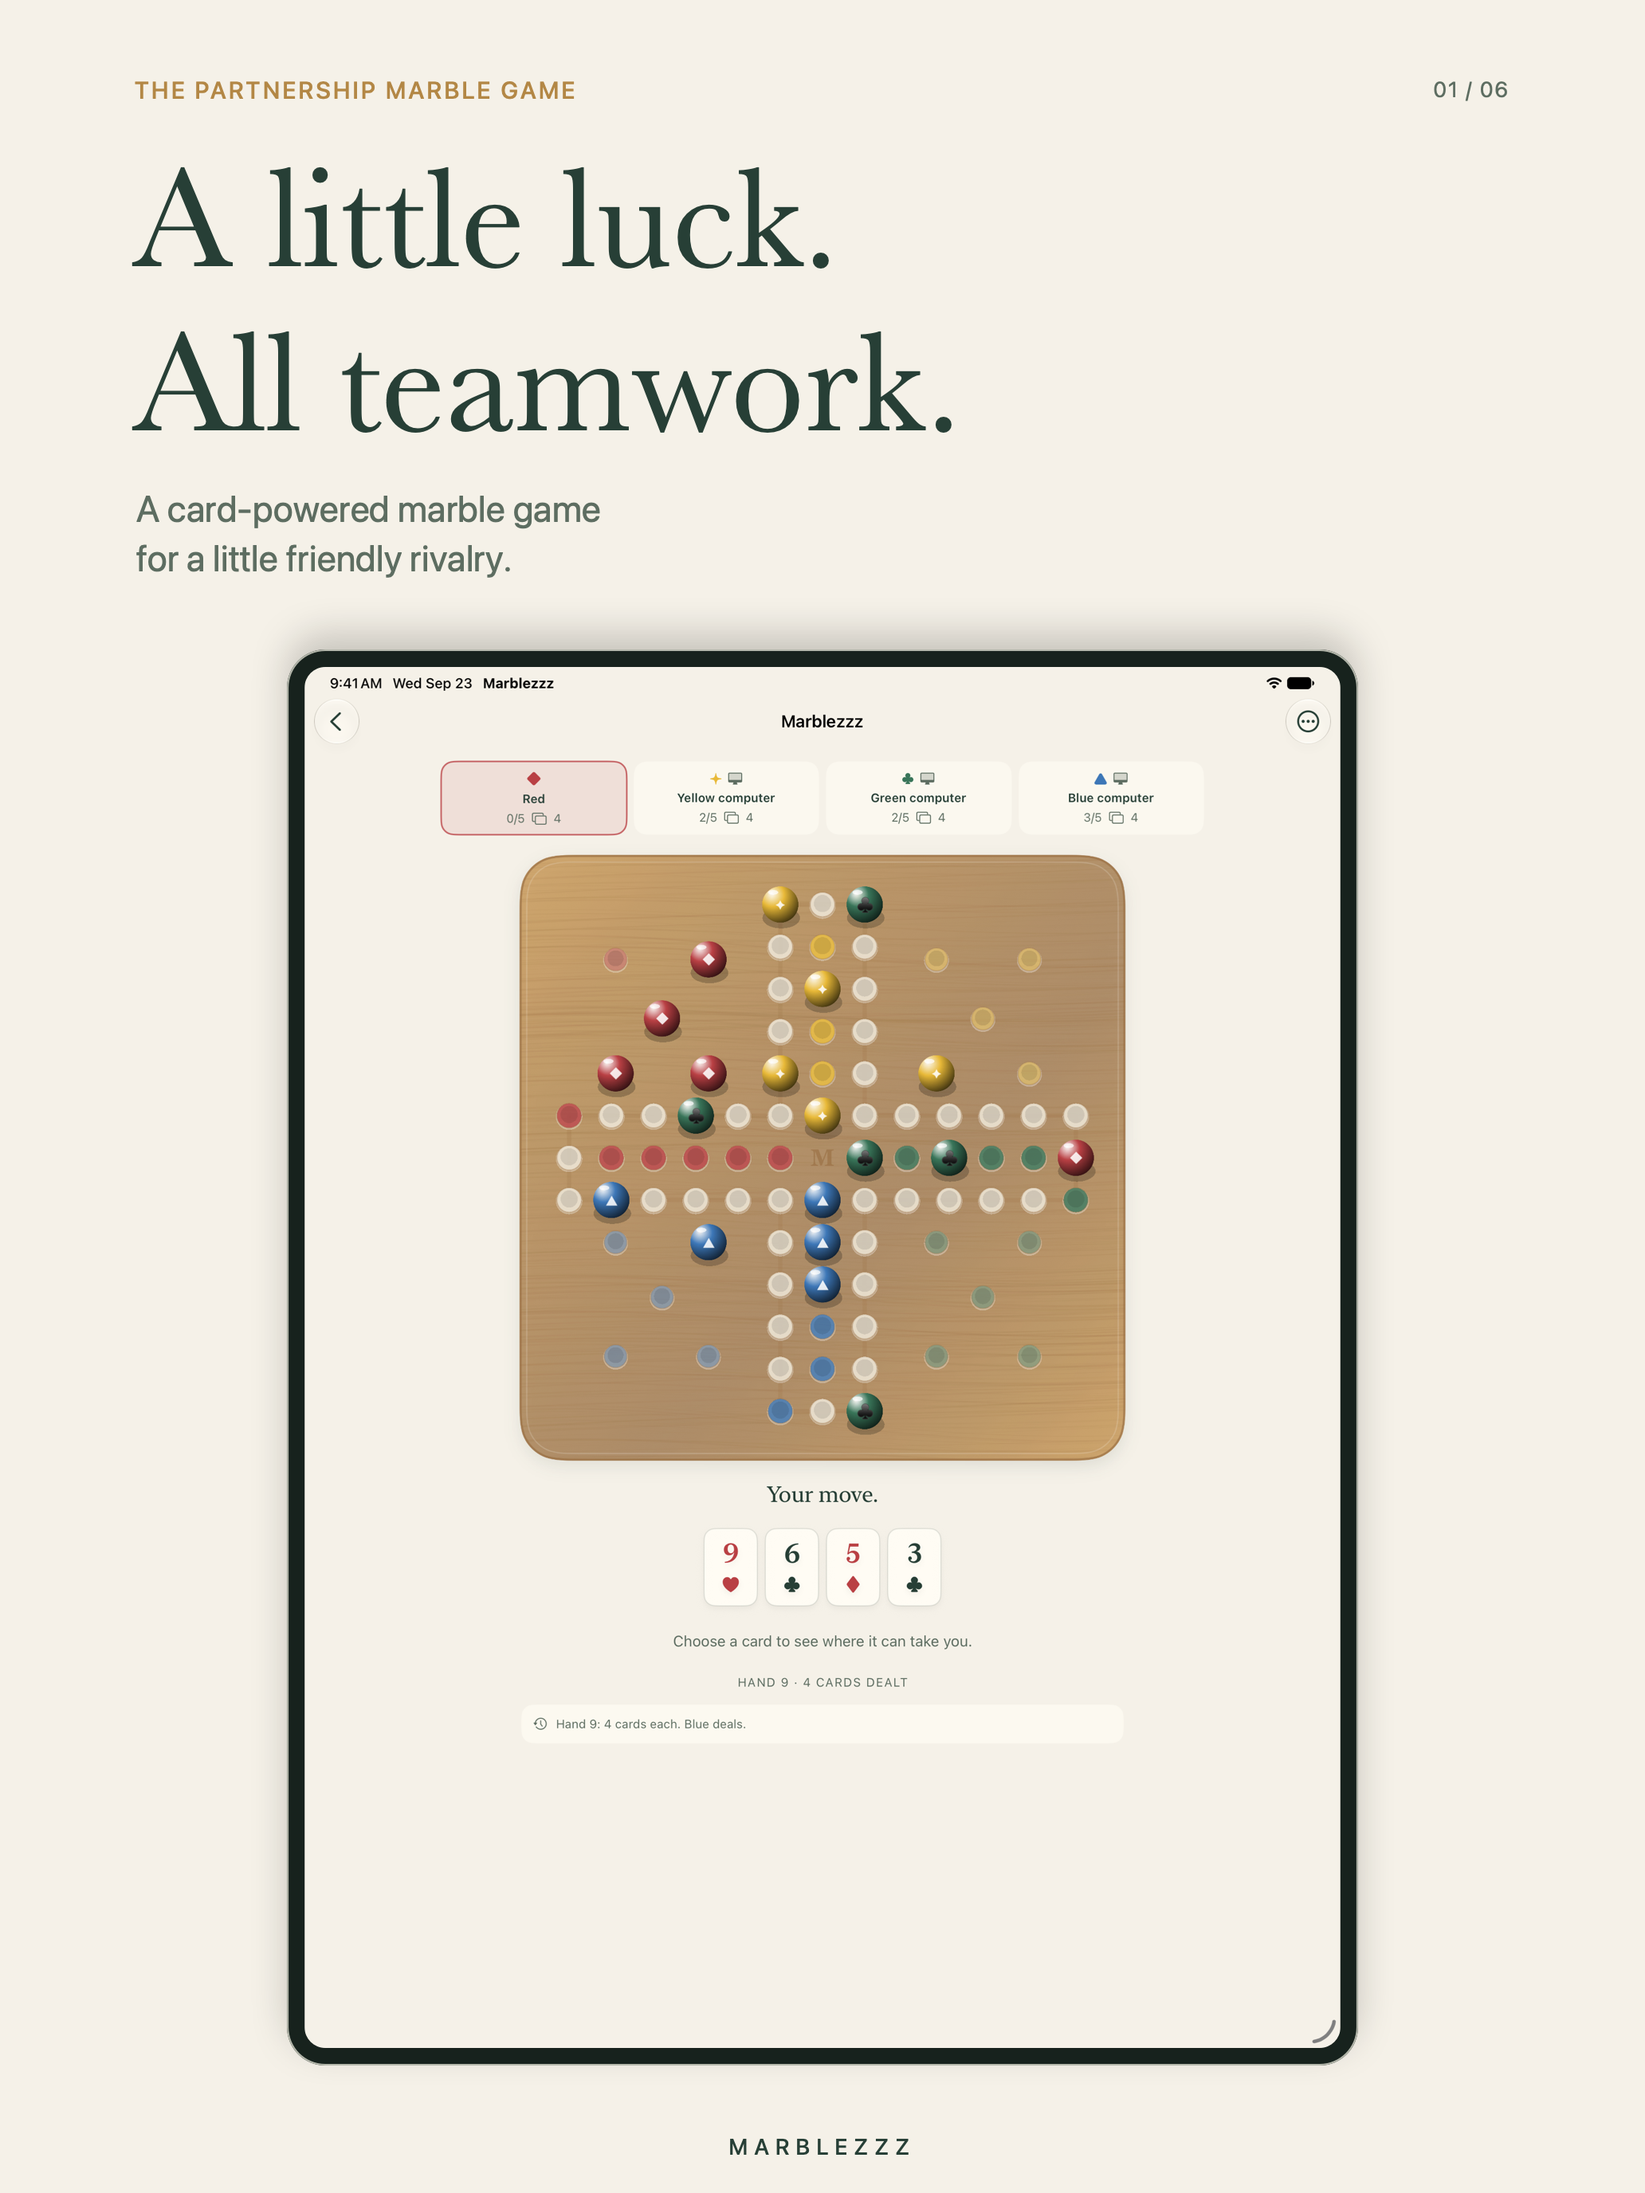
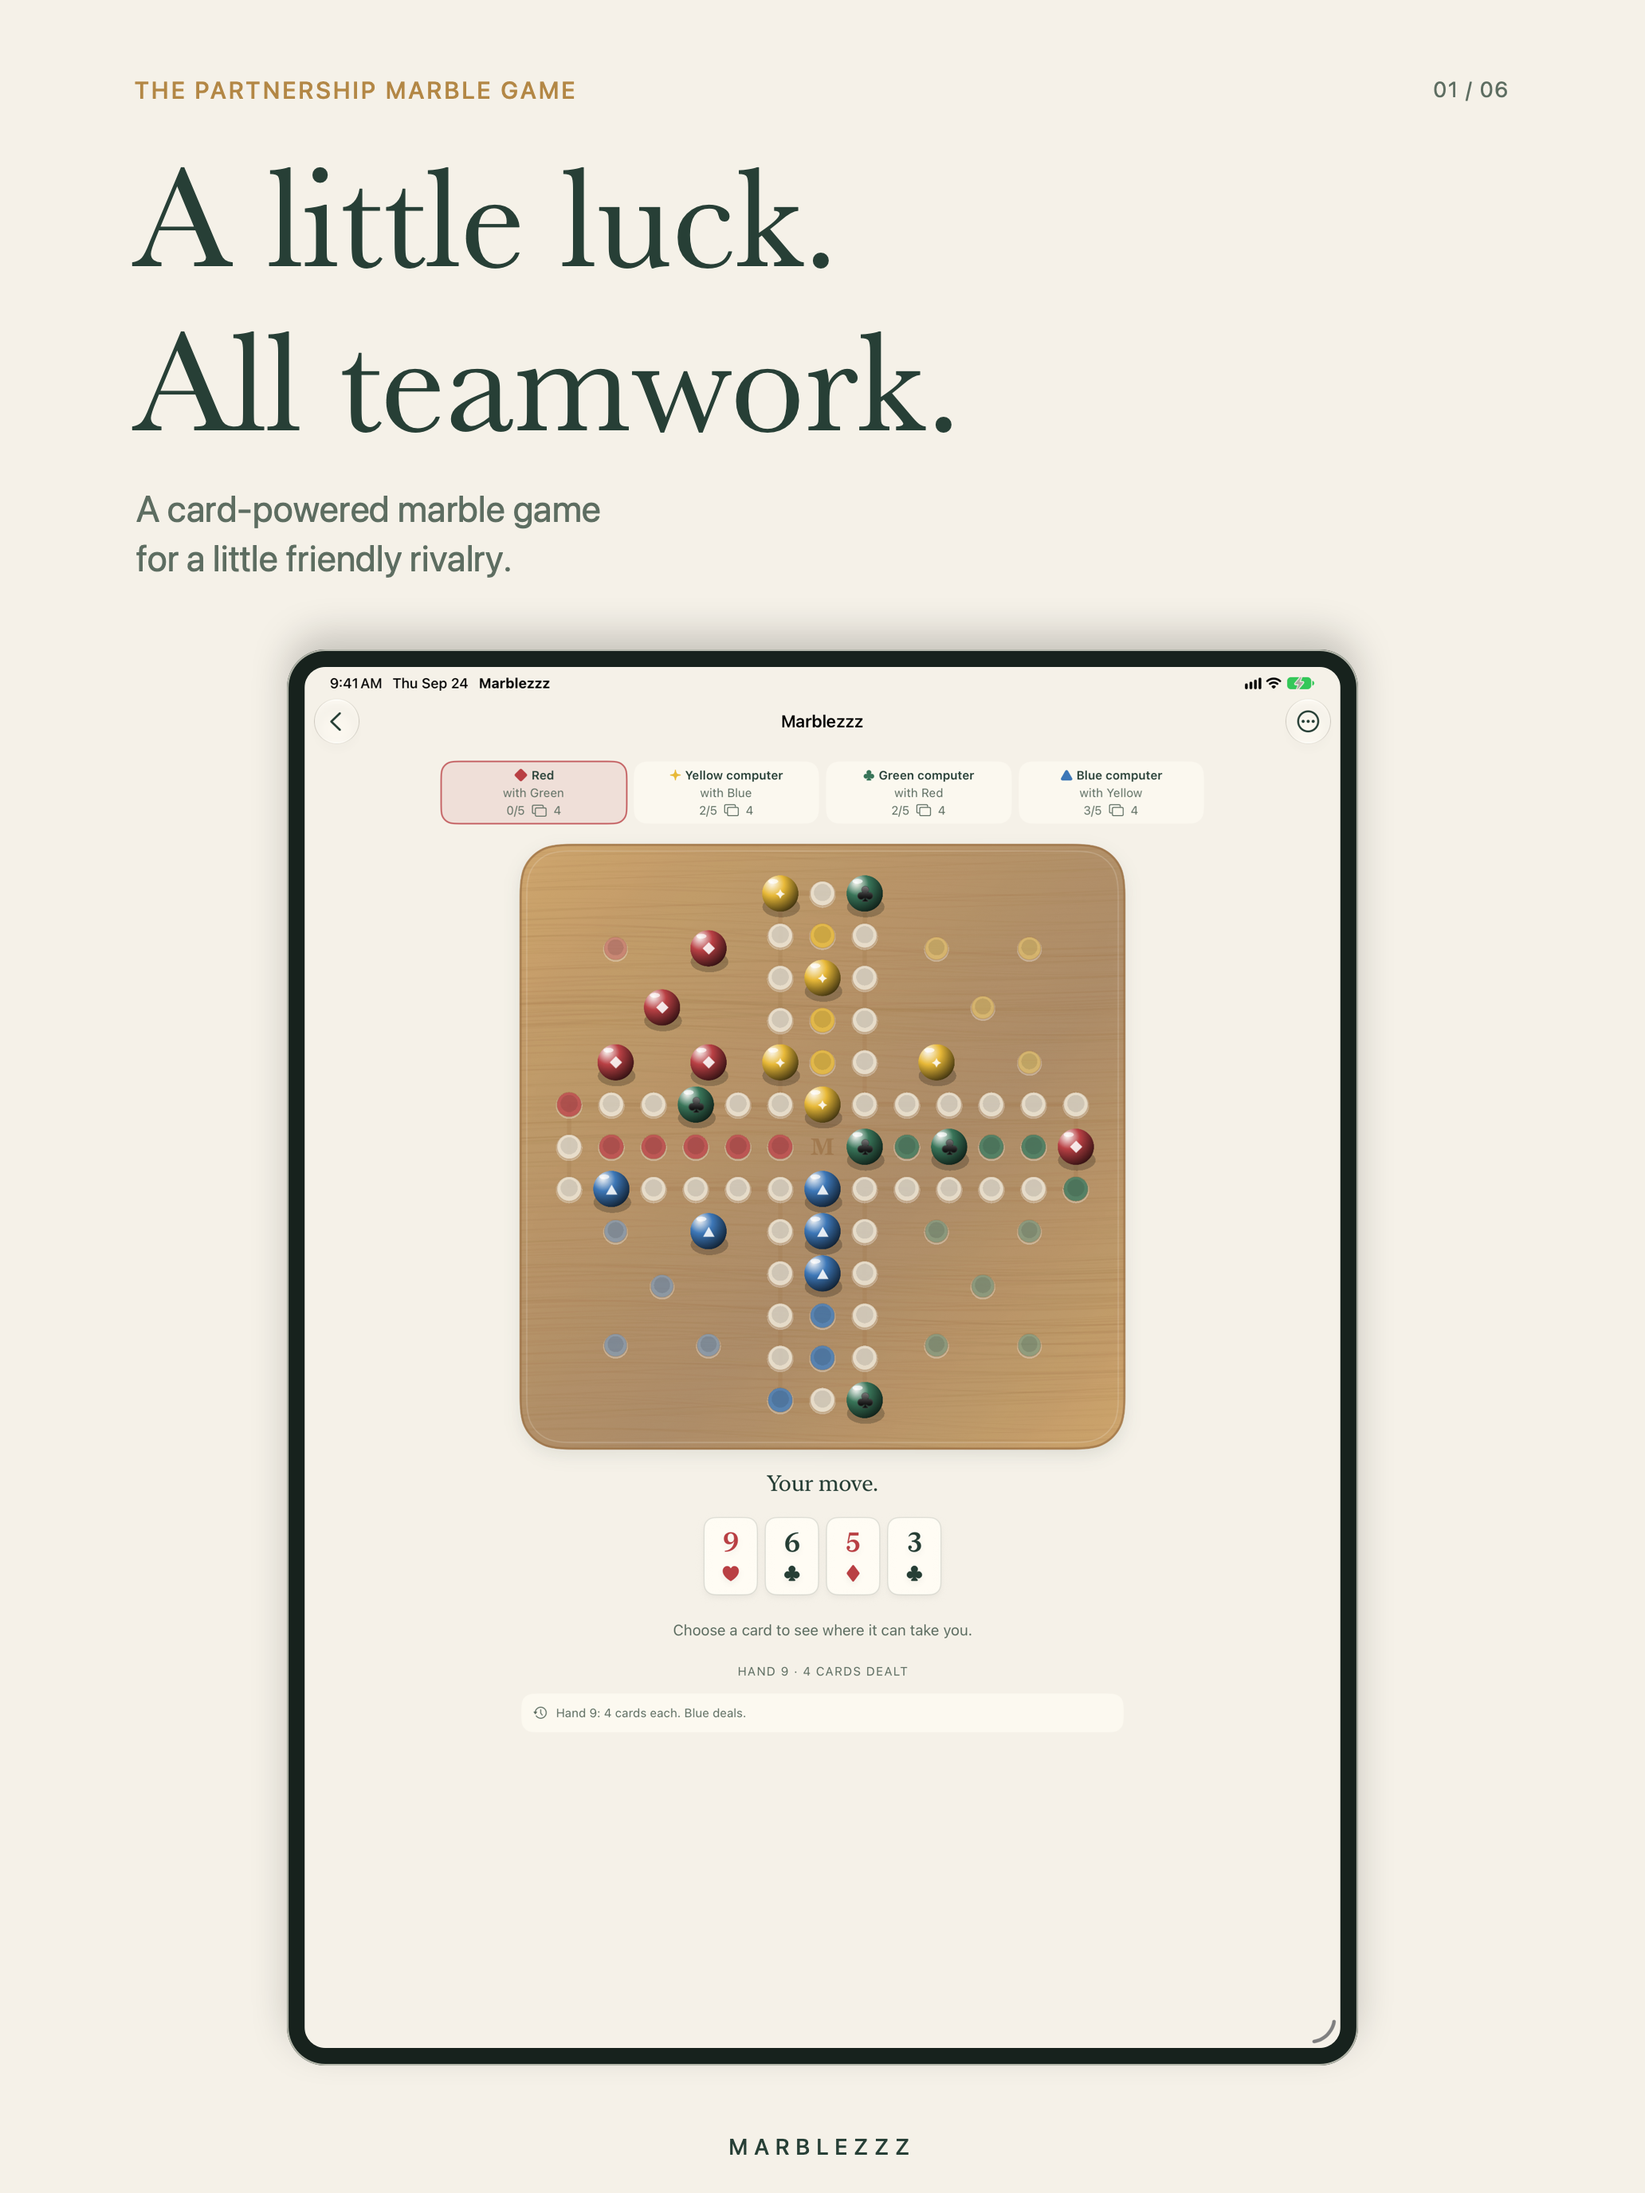
Keep move confirmation visible and prepare TestFlight build 2

Changed region(s): [[0.3101, 0.3438, 0.7132, 0.7812], [0.6202, 0.5938, 0.6512, 0.625]]

diff --git a/Marblezzz/Views/GameTableView.swift b/Marblezzz/Views/GameTableView.swift
@@ -45,6 +45,7 @@ struct GameTableView: View {
     @Environment(\.dynamicTypeSize) private var dynamicTypeSize
     @ScaledMetric(relativeTo: .title2) private var cardWidth: CGFloat = 53
     @ScaledMetric(relativeTo: .caption) private var minimumPlayerWidth: CGFloat = 74
+    @ScaledMetric(relativeTo: .caption) private var playerIconSize: CGFloat = 11
     @ScaledMetric(relativeTo: .body) private var moveListHeight: CGFloat = 180
     let theme: BoardTheme
     @State private var selectedCard: Card?
@@ -71,21 +72,39 @@ struct GameTableView: View {
         Group {
             if let session = model.session, let game = session.game {
                 GeometryReader { geometry in
-                    ScrollView {
-                        VStack(spacing: 17) {
-                            playerRow(session, game, availableWidth: geometry.size.width - 28)
-                            if geometry.size.width > geometry.size.height {
-                                HStack(alignment: .top, spacing: 26) {
-                                    board(game).frame(width: max(1, min(geometry.size.width * 0.53, geometry.size.height - 80)), height: max(1, min(geometry.size.width * 0.53, geometry.size.height - 80)))
-                                    controls(session, game).frame(maxWidth: 400)
-                                }.frame(maxWidth: .infinity)
-                            } else {
-                                board(game).frame(width: max(1, min(geometry.size.width - 28, 610)), height: max(1, min(geometry.size.width - 28, 610)))
-                                controls(session, game).frame(maxWidth: 600)
+                    VStack(spacing: 0) {
+                        ScrollView {
+                            VStack(spacing: 17) {
+                                playerRow(session, game, availableWidth: geometry.size.width - 28)
+                                if geometry.size.width > geometry.size.height {
+                                    HStack(alignment: .top, spacing: 26) {
+                                        board(game).frame(width: max(1, min(geometry.size.width * 0.53, geometry.size.height - 80)), height: max(1, min(geometry.size.width * 0.53, geometry.size.height - 80)))
+                                        controls(session, game).frame(maxWidth: 400)
+                                    }.frame(maxWidth: .infinity)
+                                } else {
+                                    board(game).frame(width: max(1, min(geometry.size.width - 28, 610)), height: max(1, min(geometry.size.width - 28, 610)))
+                                    controls(session, game).frame(maxWidth: 600)
+                                }
                             }
-                        }.padding(.horizontal, 14).padding(.top, 8).padding(.bottom, 24)
+                            .padding(.horizontal, 14).padding(.top, 8).padding(.bottom, 24)
                             .frame(maxWidth: .infinity)
-                    }.accessibilityIdentifier("table-scroll")
+                        }
+                        .accessibilityIdentifier("table-scroll")
+                        if model.canPlay, let selectedCard, !actions.isEmpty {
+                            Button {
+                                if let selectedAction { Task { await model.commit(selectedAction) } }
+                            } label: { Text(selectedAction == nil ? "Choose a marble" : "Play \(selectedCard.label)") }
+                            .buttonStyle(PrimaryButton())
+                            .disabled(selectedAction == nil)
+                            .opacity(selectedAction == nil ? 0.5 : 1)
+                            .accessibilityIdentifier("confirm-move")
+                            .frame(maxWidth: 600)
+                            .padding(.horizontal, 14)
+                            .padding(.vertical, 10)
+                            .frame(maxWidth: .infinity)
+                            .background(Palette.background)
+                        }
+                    }
                 }
             } else if model.session != nil { lobby }
         }
@@ -134,25 +153,33 @@ struct GameTableView: View {
         let columnCount = max(1, min(4, Int((min(availableWidth, 760) + 7) / (minimumPlayerWidth + 7))))
         return LazyVGrid(columns: Array(repeating: GridItem(.flexible(), spacing: 7), count: columnCount), spacing: 7) {
             ForEach(session.settings.seats) { slot in
-                VStack(spacing: 5) {
-                    HStack(spacing: 4) {
-                        Image(systemName: slot.seat.symbol).foregroundStyle(slot.seat.color)
-                        if slot.kind == .computer { Image(systemName: "desktopcomputer").foregroundStyle(Palette.secondary) }
-                    }.font(.caption)
-                    Text(slot.name).font(.caption.weight(.semibold))
-                        .lineLimit(dynamicTypeSize.isAccessibilitySize ? nil : 2)
-                        .multilineTextAlignment(.center)
+                let playerDescription = slot.kind == .computer && !slot.name.localizedCaseInsensitiveContains("computer")
+                    ? "\(slot.name), computer" : slot.name
+                VStack(spacing: 3) {
+                    HStack(spacing: 3) {
+                        Image(systemName: slot.seat.symbol)
+                            .font(.system(size: playerIconSize, weight: .semibold))
+                            .foregroundStyle(slot.seat.color)
+                        Text(slot.name).font(.caption.weight(.semibold))
+                            .lineLimit(dynamicTypeSize.isAccessibilitySize ? nil : 2)
+                    }
+                    .multilineTextAlignment(.center)
+                    Text("with \(slot.seat.partner.name)")
+                        .font(.caption)
+                        .foregroundStyle(Palette.secondary)
+                        .lineLimit(dynamicTypeSize.isAccessibilitySize ? nil : 1)
+                        .minimumScaleFactor(0.85)
                     HStack(spacing: 5) {
                         Text("\(game.homeCount(slot.seat))/5").accessibilityLabel("\(game.homeCount(slot.seat)) marbles home")
                         Image(systemName: "rectangle.on.rectangle")
                         Text("\(game.hands[slot.seat.rawValue].count)")
                     }.font(.caption).foregroundStyle(Palette.secondary)
                 }
-                .frame(maxWidth: .infinity, maxHeight: .infinity).padding(.vertical, 9)
+                .frame(maxWidth: .infinity, maxHeight: .infinity).padding(.vertical, 6)
                 .background(game.activeSeat == slot.seat ? slot.seat.color.opacity(0.10) : Palette.cream.opacity(0.6), in: RoundedRectangle(cornerRadius: 13))
                 .overlay(RoundedRectangle(cornerRadius: 13).stroke(game.activeSeat == slot.seat ? slot.seat.color.opacity(0.8) : .clear, lineWidth: 1.5))
                 .accessibilityElement(children: .combine)
-                .accessibilityLabel("\(slot.name), partners with \(slot.seat.partner.name), \(game.homeCount(slot.seat)) home, \(game.hands[slot.seat.rawValue].count) cards\(game.activeSeat == slot.seat ? ", current turn" : "")")
+                .accessibilityLabel("\(playerDescription), partners with \(slot.seat.partner.name), \(game.homeCount(slot.seat)) home, \(game.hands[slot.seat.rawValue].count) cards\(game.activeSeat == slot.seat ? ", current turn" : "")")
                 .accessibilityIdentifier("player-status-\(slot.seat.rawValue)")
             }
         }.frame(maxWidth: 760)
@@ -216,7 +243,7 @@ struct GameTableView: View {
                     } else {
                         Text(instruction(game)).font(.subheadline).foregroundStyle(Palette.secondary)
                             .multilineTextAlignment(.center).frame(minHeight: 38)
-                        if let selectedCard, !actions.isEmpty {
+                        if selectedCard != nil, !actions.isEmpty {
                             Button { moveListExpanded.toggle() } label: {
                                 HStack {
                                     Text("Legal moves · \(actions.count)")
@@ -243,11 +270,6 @@ struct GameTableView: View {
                                     }
                                 }.frame(height: moveListHeight).accessibilityIdentifier("legal-move-list")
                             }
-                            Button {
-                                if let selectedAction { Task { await model.commit(selectedAction) } }
-                            } label: { Text(selectedAction == nil ? "Choose a marble" : "Play \(selectedCard.label)") }
-                            .buttonStyle(PrimaryButton()).disabled(selectedAction == nil)
-                            .opacity(selectedAction == nil ? 0.5 : 1).accessibilityIdentifier("confirm-move")
                         }
                     }
                 } else if game.hands[seat.rawValue].isEmpty {

diff --git a/MarblezzzUITests/MarblezzzUITests.swift b/MarblezzzUITests/MarblezzzUITests.swift
@@ -23,6 +23,32 @@ import StoreKitTest
         app.buttons["resume-solo"].tap()
         XCTAssertTrue(app.staticTexts["turn-title"].waitForExistence(timeout: 10))
     }
+    func testMoveConfirmationStaysVisibleWithoutScrollingToBottom() {
+        app.launch()
+        startFreshSolo()
+        let cards = app.buttons.matching(NSPredicate(format: "identifier BEGINSWITH 'card-'"))
+        let humanTurn = XCTNSPredicateExpectation(predicate: NSPredicate { [weak self] _, _ in
+            self?.app.staticTexts["turn-title"].label == "Your move." && cards.count > 0
+        }, object: app)
+        XCTAssertEqual(XCTWaiter.wait(for: [humanTurn], timeout: 20), .completed)
+        for identifier in cards.allElementsBoundByIndex.map(\.identifier) {
+            tapVisible(app.buttons[identifier])
+            let moves = app.buttons["legal-moves"]
+            guard moves.exists else { continue }
+            let confirm = app.buttons["confirm-move"]
+            XCTAssertTrue(confirm.isHittable, "The move action should be visible as soon as a playable card is selected.")
+            tapVisible(moves)
+            let move = app.buttons.matching(NSPredicate(format: "identifier BEGINSWITH 'move-'")).firstMatch
+            XCTAssertTrue(move.waitForExistence(timeout: 5))
+            tapVisible(move)
+            app.scrollViews["table-scroll"].swipeDown()
+            XCTAssertTrue(confirm.isEnabled)
+            XCTAssertTrue(confirm.isHittable, "The Play button should remain visible when the table is scrolled to the top.")
+            attach("Play button visible above home indicator")
+            return
+        }
+        XCTFail("The test game had no playable card.")
+    }
     func testFriendsModeIsGated() {
         app.launch()
         app.buttons["pass-and-play"].tap()

diff --git a/scripts/generate_project.rb b/scripts/generate_project.rb
@@ -45,7 +45,7 @@ app.build_configurations.each do |config|
     'TARGETED_DEVICE_FAMILY' => '1,2',
     'ASSETCATALOG_COMPILER_APPICON_NAME' => 'AppIcon',
     'MARKETING_VERSION' => '1.0',
-    'CURRENT_PROJECT_VERSION' => '1',
+    'CURRENT_PROJECT_VERSION' => '2',
     'ENABLE_USER_SCRIPT_SANDBOXING' => 'YES'
   })
   config.build_settings['SWIFT_ACTIVE_COMPILATION_CONDITIONS'] = 'DEBUG' if config.name == 'Debug'

diff --git a/fastlane/README.md b/fastlane/README.md
@@ -17,6 +17,7 @@ export QA_DESTINATION='id=your-iOS-27-iPhone-simulator-UDID'
 - `fastlane listing`: upload English metadata and the reviewed screenshots without submitting to App Review. Read back screenshot counts, order, checksums and COMPLETE state; Fastlane retries can leave duplicates even when the command succeeds.
 - `fastlane archive`: signed archive and IPA, with no upload.
 - `fastlane beta_checked`: strict gate, signed archive, and TestFlight upload. This lane does not submit to App Review or invite external testers.
+- Set `TESTFLIGHT_CHANGELOG` to the build-specific tester notes before running `beta_checked`. The lane verifies that the local build number exceeds the latest TestFlight build for version 1.0.
 
 The gate validates the current screenshot exports against their reviewed hashes. If UI changes affect a captured screen, refresh it using the Simulator and Computer Use, visually review the native and framed images, rerun `marketing/tools/validate_assets.py`, and commit the new assets and validation record before uploading.
 
